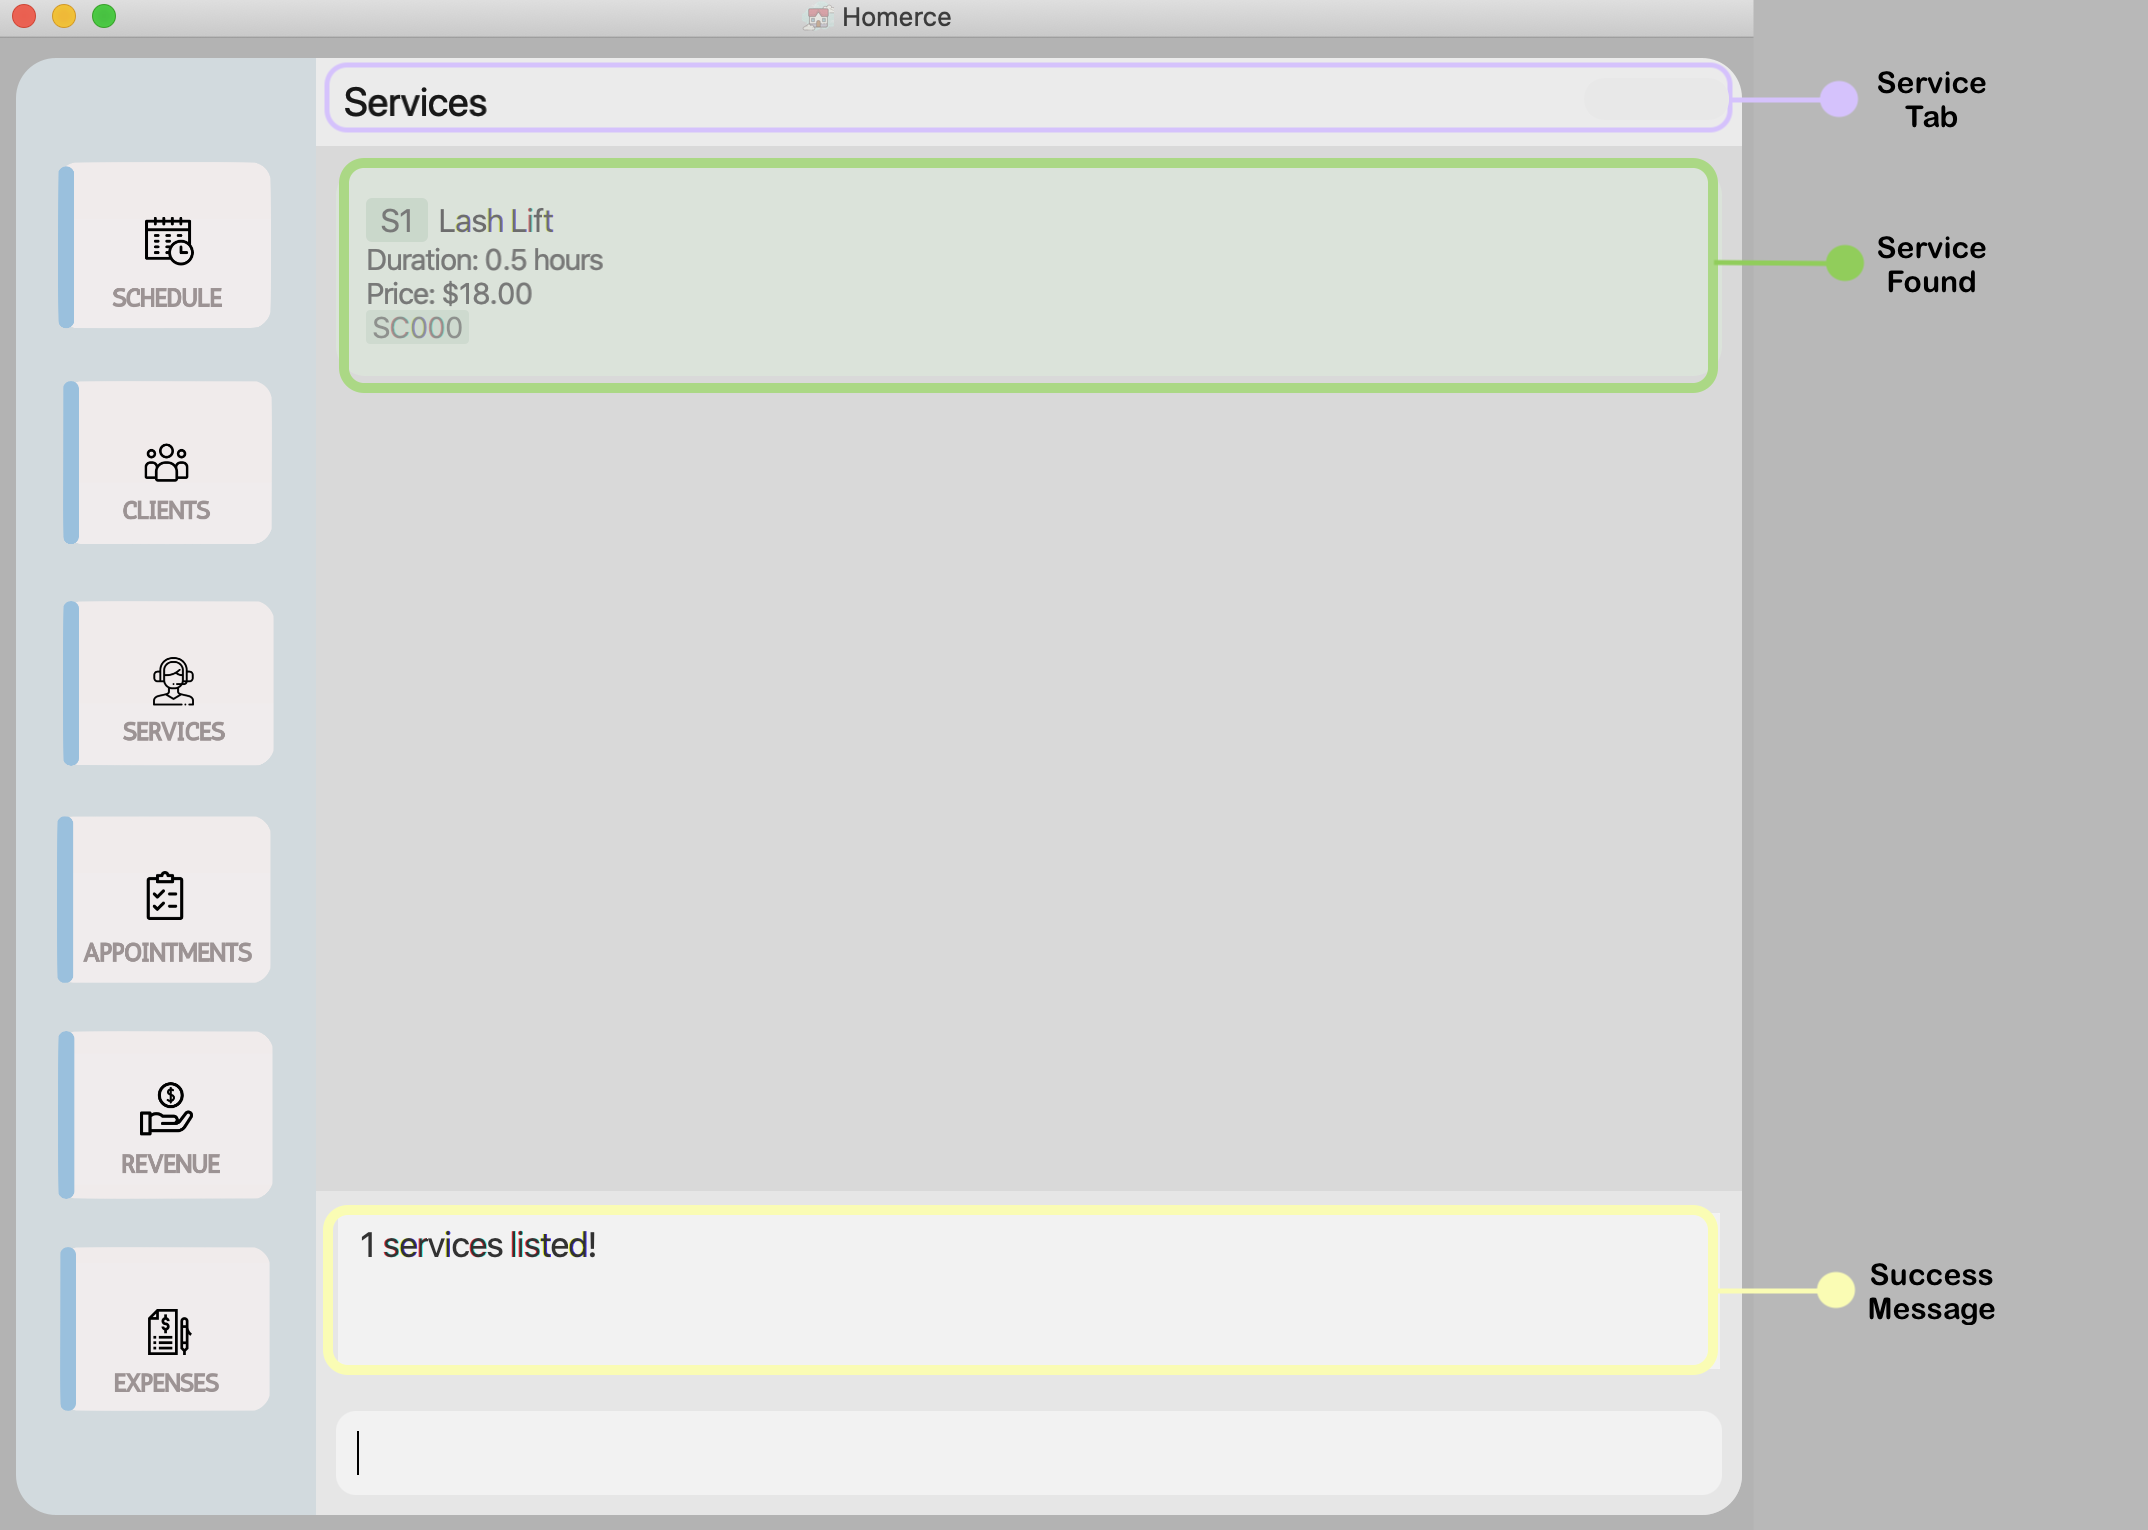
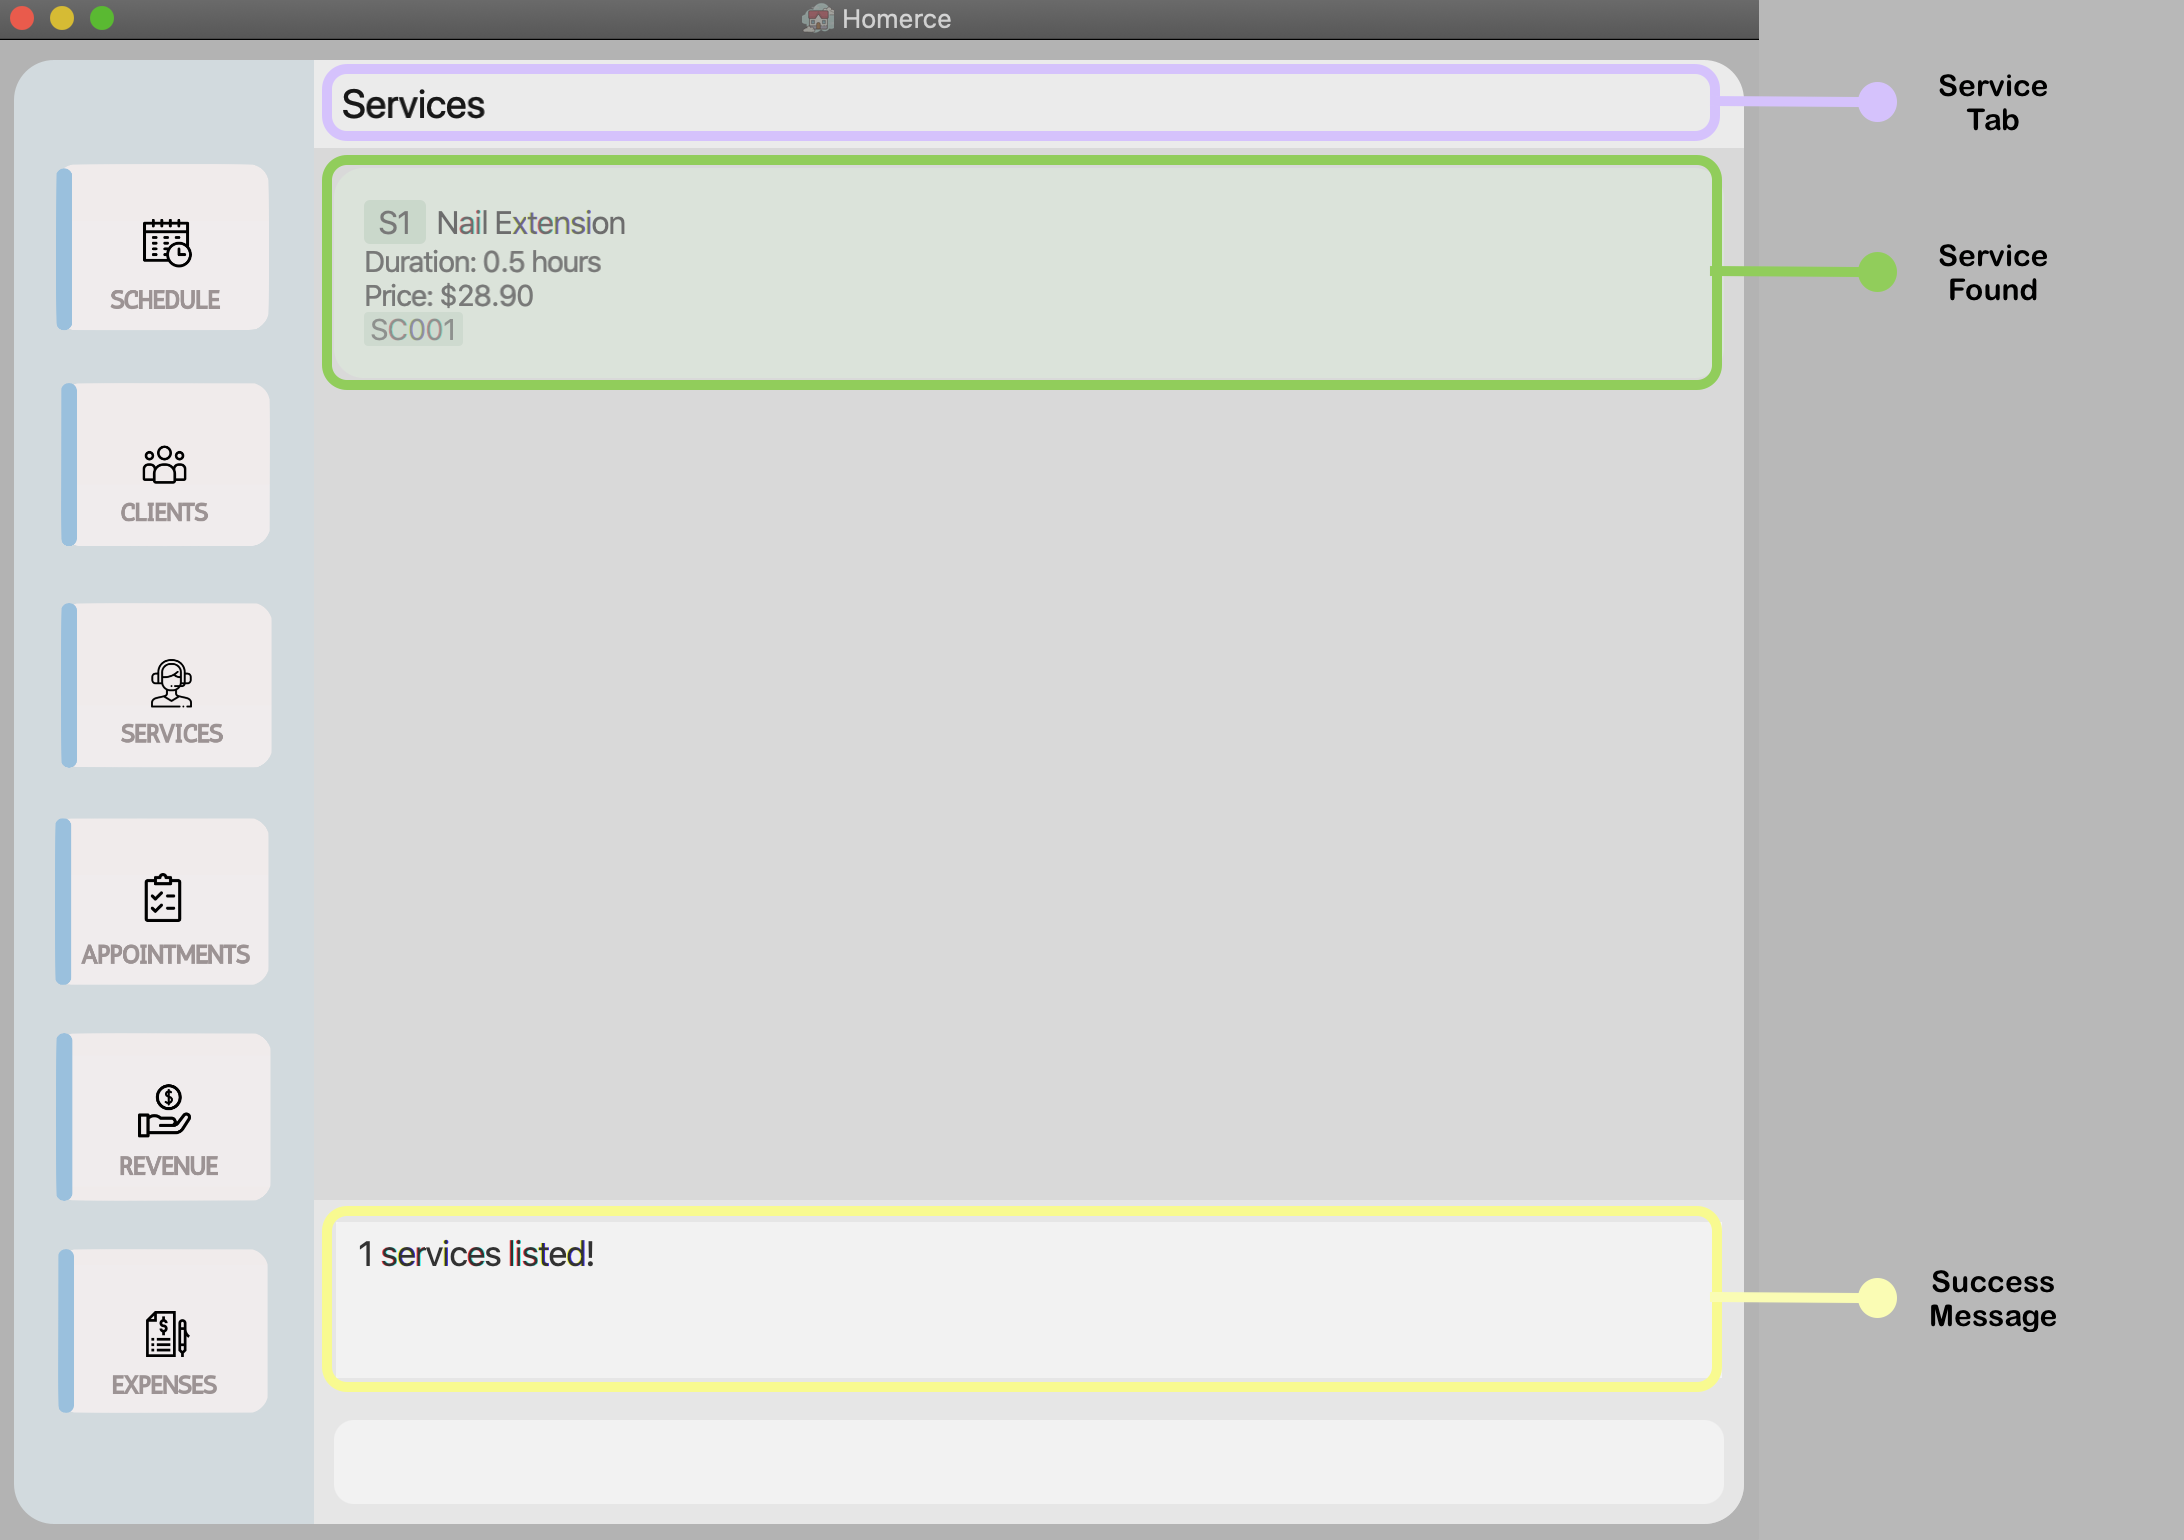
Change findsvc diagram

diff --git a/docs/UserGuide.md b/docs/UserGuide.md
@@ -453,7 +453,7 @@ Let's say you are no longer providing a particular service and want to delete it
 instructions.
 
 Deleting an existing service:
-1. Type `deletesvc 1` into the *Command Box*.
+1. Type `deletesvc 3` into the *Command Box*.
 2. Press `Enter` to execute.
 
 Outcome:
@@ -463,7 +463,7 @@ Outcome:
 ![deletesvc](images/deletesvc.png) <br>
 *Figure 11 - GUI outcome for `deletesvc`*
 
-3. You can now see that the service with service code SC001 has been deleted from Homerce.
+3. You can now see that the service that was previously on the third index in the service list has been deleted from Homerce.
 
 #### 4.2.5. Find a service by keyword: `findsvc`
 
@@ -484,7 +484,7 @@ Let's say you want to find all the services that contain nail in its title from 
 follow these instructions.
 
 Finding a service:
-1. Type `findsvc t/lash` into the *Command Box*.
+1. Type `findsvc t/nail` into the *Command Box*.
 2. Press `Enter` to execute.
 
 Outcome:
